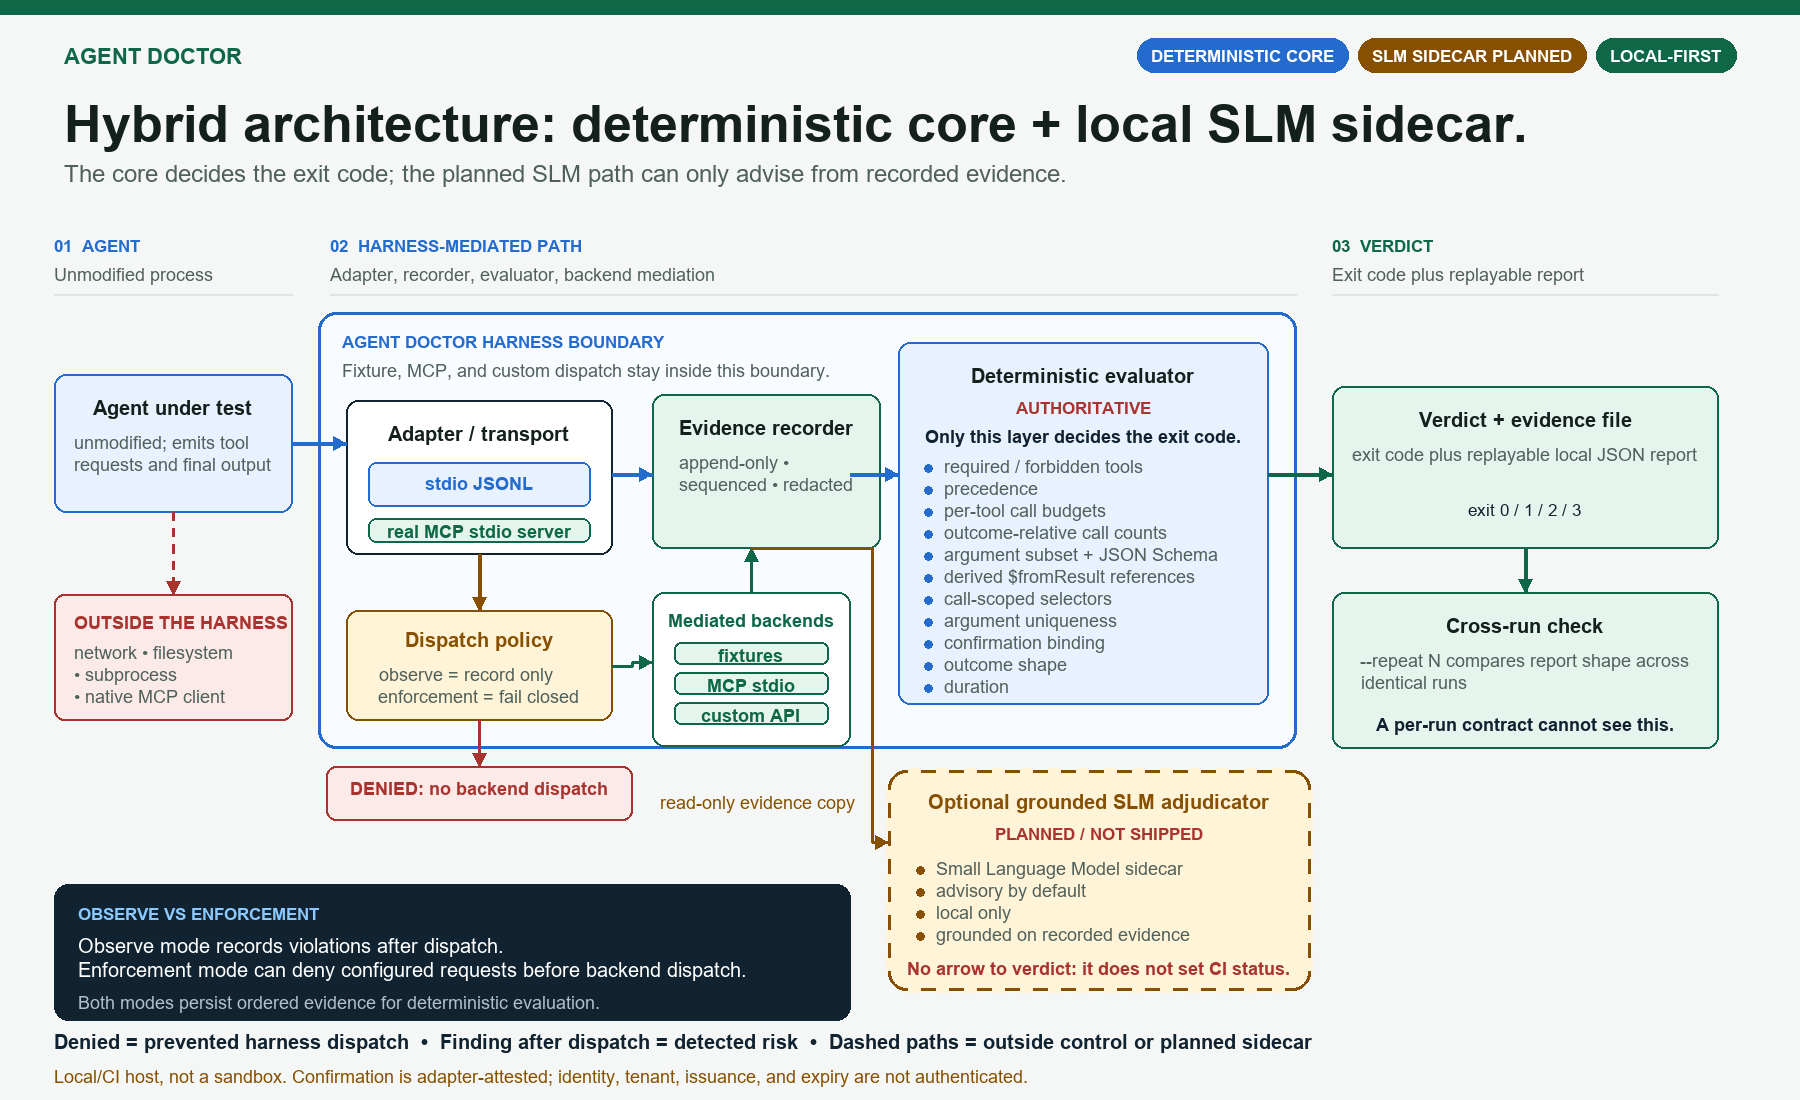
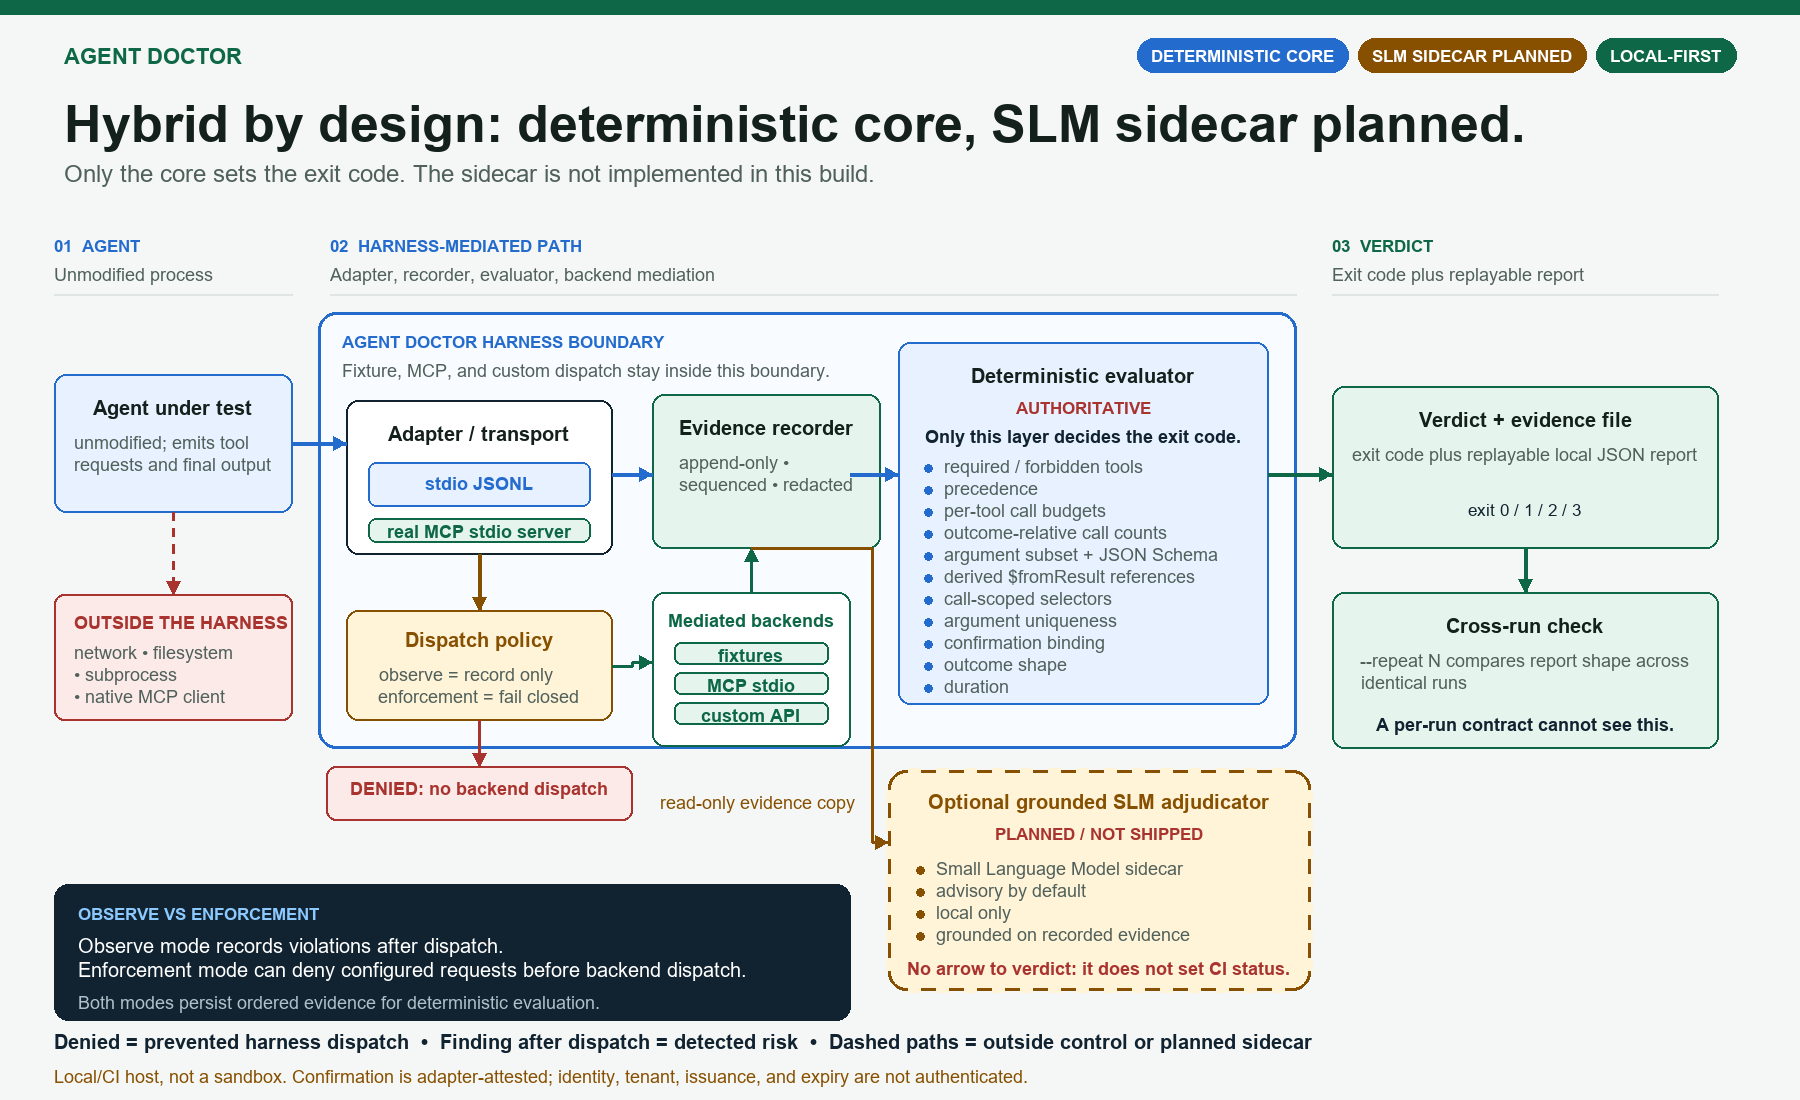
Make the architecture diagram title state what ships
The title read 'Hybrid architecture: deterministic core + local SLM sidecar',
which describes the sidecar as if it exists. The PLANNED badge and the dashed
box already said otherwise, but the title is what survives when the image is
reused in a deck or a social preview without them.

Retitle to 'Hybrid by design: deterministic core, SLM sidecar planned' and use
the subtitle to say the sidecar is not implemented in this build.

Changed region(s): [[0.0311, 0.0927, 0.84, 0.1855]]

diff --git a/scripts/render-marketing-image.py b/scripts/render-marketing-image.py
@@ -617,8 +617,8 @@ def render_architecture():
     draw_header(
         draw,
         width,
-        "Hybrid architecture: deterministic core + local SLM sidecar.",
-        "The core decides the exit code; the planned SLM path can only advise from recorded evidence.",
+        "Hybrid by design: deterministic core, SLM sidecar planned.",
+        "Only the core sets the exit code. The sidecar is not implemented in this build.",
         [
             ("DETERMINISTIC CORE", BLUE, WHITE),
             ("SLM SIDECAR PLANNED", AMBER, WHITE),
